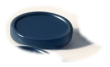
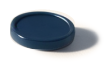
fix(marketing): clean navy token sprites; fade hero plate into page cream
Navy campaign tokens are cut from one clean puck (full outline, anti-aliased,
no neighbour fragments or plate smudge); size, placement, timing and lanes
unchanged. Desktop hero plate eases into the page cream at its bottom edge.

diff --git a/components/marketing-hero-routing.tsx b/components/marketing-hero-routing.tsx
@@ -236,6 +236,11 @@ export function MarketingHeroRouting({ copy }: { copy: ReactNode }) {
               </g>
             ))}
           </svg>
+          {/* Desktop: the plate's floor eases into the page cream, so the hero has no hard bottom edge. */}
+          <div
+            aria-hidden
+            className="pointer-events-none absolute inset-x-0 bottom-0 hidden h-[9%] bg-gradient-to-b from-cream/0 via-cream/70 to-cream lg:block"
+          />
           {reduce ? null : (
             <MotionToggle
               paused={state !== "playing"}
